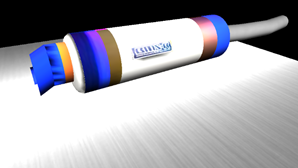
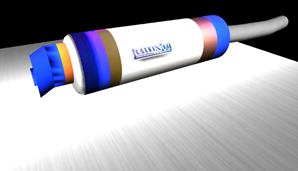
最終課題レポート

diff --git a/最終課題レポート.html b/最終課題レポート.html
@@ -13,7 +13,12 @@
 	{font-family:游明朝;
 	panose-1:2 2 4 0 0 0 0 0 0 0;}
 @font-face
+	{font-family:"ＭＳ Ｐゴシック";
+	panose-1:2 11 6 0 7 2 5 8 2 4;}
+@font-face
 	{font-family:"\@游明朝";}
+@font-face
+	{font-family:"\@ＭＳ Ｐゴシック";}
  /* Style Definitions */
  p.MsoNormal, li.MsoNormal, div.MsoNormal
 	{margin:0mm;
@@ -53,7 +58,7 @@ ul
 </style>
 
 </head>
-
+<body style="background-image: url(b004.gif);"></body>
 <body lang=JA link=blue vlink="#954F72" style='text-justify-trim:punctuation'>
 
 <div class=WordSection1 style='layout-grid:18.0pt'>
@@ -62,12 +67,15 @@ ul
 text-indent:-18.0pt'><span lang=EN-US>1.<span style='font:7.0pt "Times New Roman"'>&nbsp;&nbsp;&nbsp;&nbsp;&nbsp;&nbsp;
 </span></span>初めに</p>
 
-<p class=MsoListParagraph align=left style='margin-left:18.0pt;text-align:left'>　今回は自分が乗っているバイクのマフラーを<span
+<p class=MsoNormal align=left style='text-align:left;text-indent:10.5pt'>今回は自分が乗っているバイクのマフラーを<span
 lang=EN-US>blender</span>で作成し、<span lang=EN-US>three.js</span>でモデルのデータを読み込んで<span
 lang=EN-US>Web</span>上に表示するという作業を行った。表示をする際にどのようなプラグラムを書いたのかについて述べる。</p>
 
+<p class=MsoNormal align=left style='text-align:left;text-indent:10.5pt'><span
+lang=EN-US>&nbsp;</span></p>
+
 <p class=MsoNormal align=left style='text-align:left'><span lang=EN-US>2</span>．モデル作成　<span
-lang=EN-US>3DCG</span>モデルの作成をプログラムですべて行うこともできたが、せっかくなので少し複雑なものを作ろうと考え<span
+lang=EN-US>3DCG</span>モデルの作成をプログラムですべて行うこともできたが、せっかくなので少し形が複雑なものを作ろうと考え<span
 lang=EN-US>blender</span>を使用して乗っているバイクのマフラーを作成した。作成するイメージとしてグランツーリスモの車選択画面をイメージし、それのパーツ版を作成した。<span
 lang=EN-US><img width=567 height=199 id="図 1" src="最終課題レポート.files/image001.gif"
 alt="道路, 車, ケーキ, 座る が含まれている画像&#10;&#10;自動的に生成された説明"></span></p>
@@ -77,22 +85,64 @@ lang=EN-US>(</span>上画像<span lang=EN-US>)</span>に近づけてそれを高
 
 <p class=MsoNormal align=left style='text-align:left'><span lang=EN-US><img
 width=256 height=171 id="図 3" src="最終課題レポート.files/image002.jpg"
-alt="バイクのエンジン&#10;&#10;自動的に生成された説明"><img width=298 height=168 id="図 5"
+alt="バイクのエンジン&#10;&#10;自動的に生成された説明"><img width=298 height=171 id="図 5"
 src="最終課題レポート.files/image003.png"></span></p>
 
-<p class=MsoNormal align=left style='text-align:left;text-indent:200.0pt'><span
-style='font-size:8.0pt'>ニンテンドー<span lang=EN-US>64</span>位のグラフィック。イメージに近くなった。</span></p>
+<p class=MsoNormal align=left style='text-align:left'><span style='font-size:
+8.0pt'>ヒートグラデーションの境目をくっきりとした。ニンテンドー<span lang=EN-US>64</span>位のグラフィック。イメージに近くなった。</span></p>
 
 <p class=MsoNormal align=left style='text-align:left'>作成したモデルを<span lang=EN-US>dae</span>ファイルでエクスポートした。このファイルを<span
-lang=EN-US>three.js</span>で読み込む際には<span lang=EN-US style='color:black;
-background:#FAFAFA'>ColladaLoader.js</span><span style='color:black;background:
-#FAFAFA'>ファイルが必要なので事前に使用するファイルにダウンロードした。このモデルを作成していた空間に入れることで<span lang=EN-US>Web</span>上に表示することが出来た。</span></p>
+lang=EN-US>three.js</span>で読み込む際には<span lang=EN-US>ColladaLoader.js</span>ファイルが必要なので事前に使用するファイルにダウンロードした。この読み込んだモデルを作成していた空間に入れることで<span
+lang=EN-US>Web</span>上に表示することが出来た。</span></p>
 
 <p class=MsoNormal align=left style='text-align:left'><span lang=EN-US
-style='color:black;background:#FAFAFA'><a href="beams.html">beams.html</a></span></p>
+style='color:black;background:#FAFAFA'>&nbsp;</span></p>
 
-<p class=MsoNormal align=left style='text-align:left'><span lang=EN-US>3.</span></p>
+<p class=MsoNormal align=left style='text-align:left'><span lang=EN-US>3.</span>カメラと光の制御</p>
 
+<p class=MsoNormal style='text-indent:10.5pt'>参考にしたコードのままだとカメラの初期位置が合っていないのと光の位置がよくなかったので変更した。</p>
+
+<p class=MsoNormal style='text-indent:10.5pt'><span lang=EN-US><img width=331
+height=186 id="図 2" src="最終課題レポート.files/image004.png"
+alt="ボール, モニター, テーブル, コンピュータ が含まれている画像&#10;&#10;自動的に生成された説明"></span>カメラの初期座標<span
+lang=EN-US>(0,10,10)</span>の状態。光の当たりも強すぎる。</p>
+
+<p class=MsoNormal><span lang=EN-US>3.1</span>　変更、調整</p>
+
+<p class=MsoNormal style='text-indent:10.5pt'>　少し位置が高かったので<span lang=EN-US>y</span>座標を<span
+lang=EN-US>8</span>に、中央に持っていきたかったので<span lang=EN-US>z</span>座標を<span
+lang=EN-US>0</span>、正面に回転させたいので<span lang=EN-US>x</span>座標を<span lang=EN-US>18</span>に調整することでカメラの初期位置をマフラーの正面に持っていくことが出来た。ライトが非常に強かった原因は<span
+lang=EN-US>blender</span>で作成した時点で光を設定していたところに更に光を当てていたことであったので平行光源を削除した。これらの作業をしたことによって<span
+lang=EN-US>Web</span>上で見やすくなった。</p>
+
+<p class=MsoNormal align=left style='text-align:left'><span lang=EN-US><img
+width=333 height=187 id="図 4" src="最終課題レポート.files/image005.png"></span><span
+style='font-size:10.5pt'>静かに光る感じをうまく作ることが出来た。</span></p>
+
+<p class=MsoNormal align=left style='text-align:left'><span lang=EN-US>4.</span>完成、制作を終えて</p>
+
+<p class=MsoNormal align=left style='text-align:left;text-indent:10.5pt'>完成した<span
+lang=EN-US>3D</span>モデルをページに表示することが出来た<span lang=EN-US><a
+href="model/beams.html"><span style='background:#FAFAFA'>beams.html</span></a></span>。制作をしていく中で<span
+lang=EN-US>HTML</span>で<span lang=EN-US>3D</span>モデルを制作するための<span lang=EN-US>three.js</span>について学ぶことが出来た。<span
+lang=EN-US>3D</span>モデルの作成ではないが<span lang=EN-US>Web</span>ページの形態や作成方法についても学ぶことが出来た。反省点としてモデルを読み込んだ際の座標の調整がうまくいかずにカメラの初期座標を調整しなければならなかった事が挙げられる。全く分からなかった状態から調べ、エラーの内容を把握して資料を探して解決していくことの達成感と経験は今後に活かしていきたい。</p>
+
+<p class=MsoNormal align=left style='text-align:left'><span lang=EN-US>&nbsp;</span></p>
+
+<p class=MsoNormal align=left style='text-align:left'><span lang=EN-US>[</span>参考文献<span
+lang=EN-US>]</span></p>
+
+<p class=MsoNormal align=left style='text-align:left'><span lang=EN-US>Three.js</span>入門サイト　<span
+lang=EN-US><a href="https://ics.media/tutorial-three/">https://ics.media/tutorial-three/</a></span></p>
+
+<p class=MsoNormal align=left style='text-align:left'><span lang=EN-US>1</span>時間で作るホームページ：<span
+lang=EN-US>1</span>時間で<span lang=EN-US>HTML</span>を使ってホームページを作ろう！<span
+lang=EN-US><a href="http://www.shoshinsha.com/hp/1hour/1hour01.html">http://www.shoshinsha.com/hp/1hour/1hour01.html</a></span></p>
+
+<p class=MsoNormal align=left style='text-align:left'><span lang=EN-US>CodeAid :Shift
+JIS</span>や<span lang=EN-US>EUC</span>などから<span lang=EN-US>UTF-8</span>へ変換する方法　<span
+lang=EN-US><a href="https://codeaid.jp/blog/exchange-utf8/">https://codeaid.jp/blog/exchange-utf8/</a></span></p><br><br>
+<a href="index.html">戻る</a>
 </div>
 
 </body>
